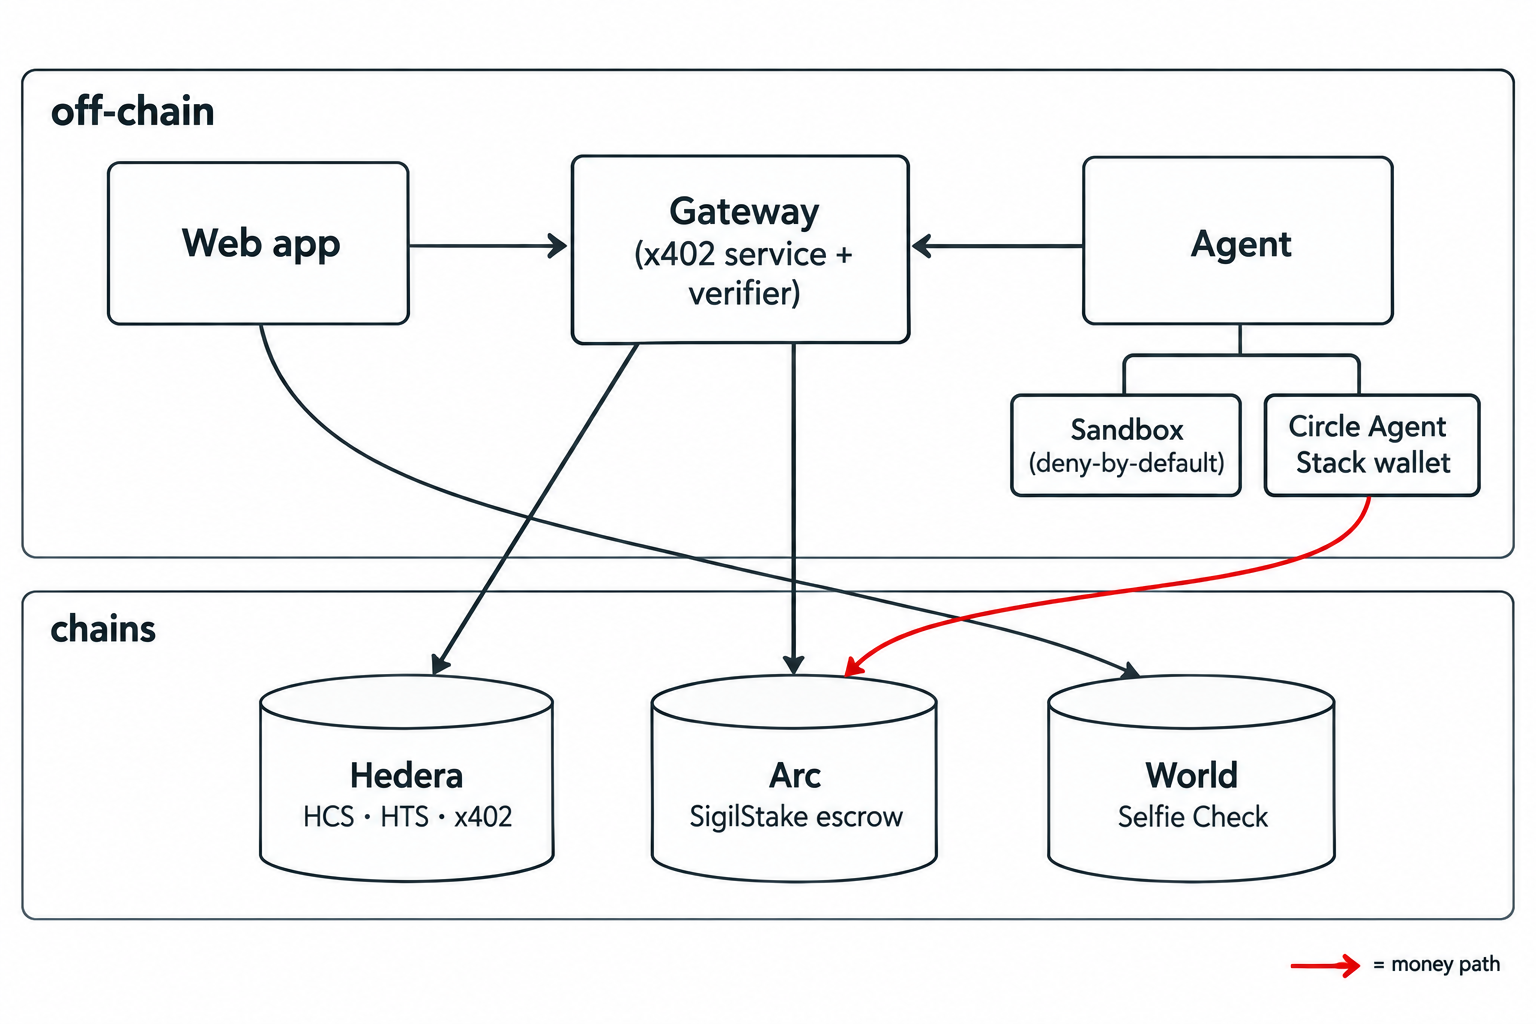
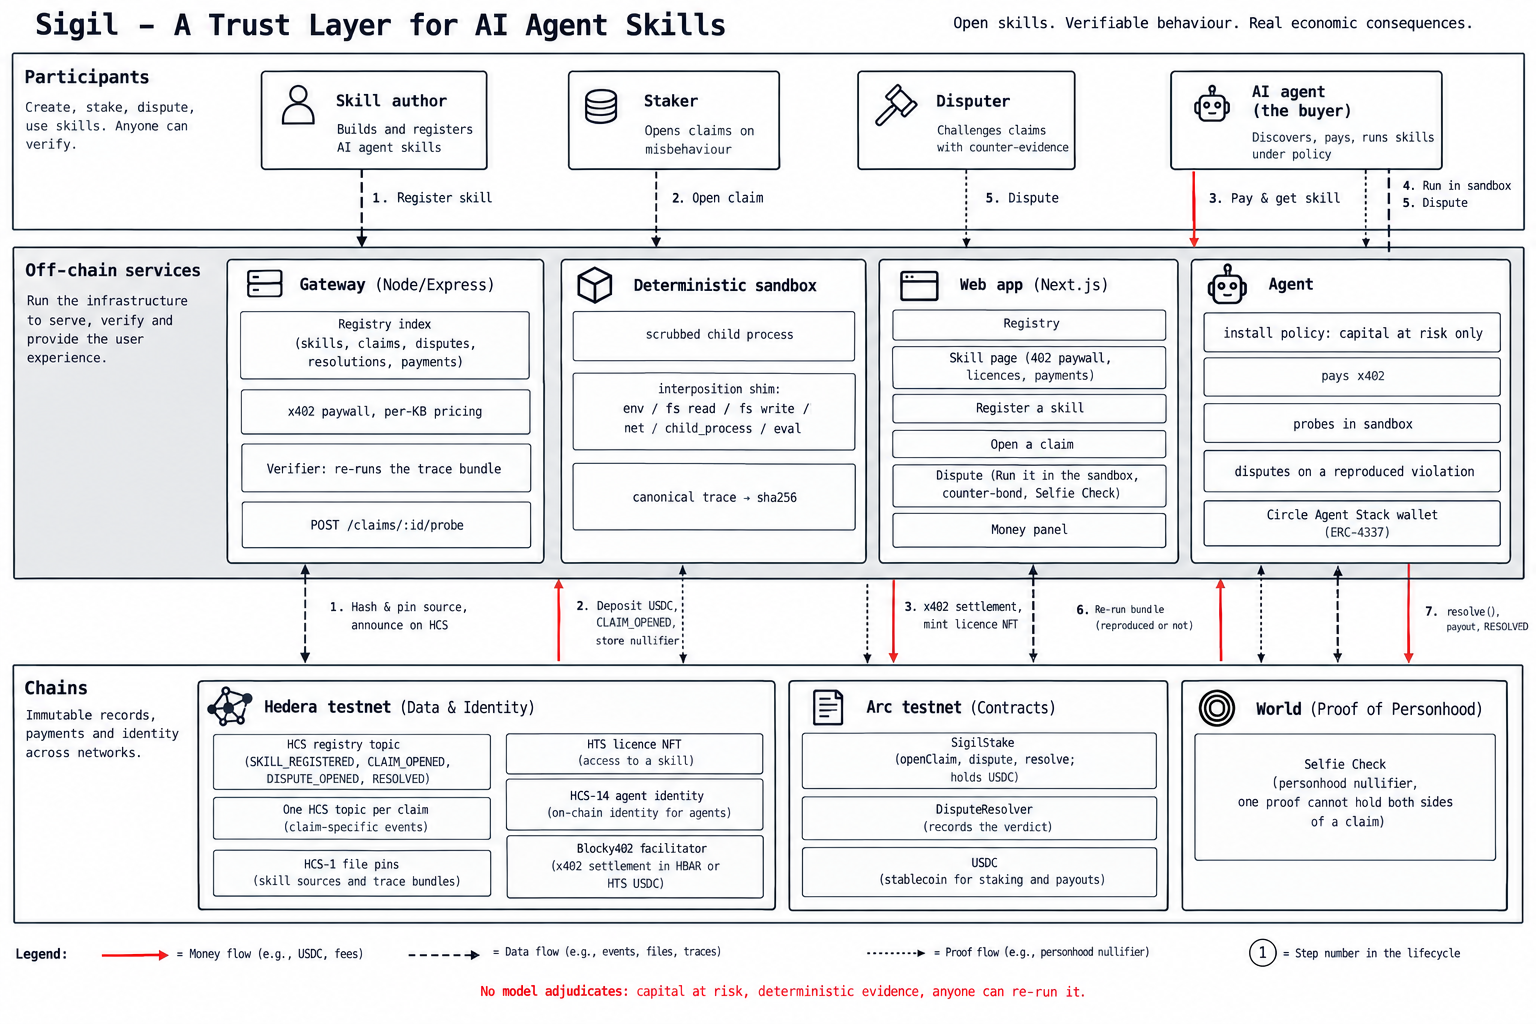
README: the new architecture figure and the Hedera Harness track (PRs #75, #76)
docs/img/diagram-architecture.png is the redrawn figure: participants,
off-chain services, the three chains, seven numbered lifecycle steps as
money, data and proof flows. README and the docs architecture page share
the path. README gains an Open Source: Improve the Hedera Harness section
with both open PRs against hedera-dev/hedera-harness dev; EVIDENCE.md's
status table gets the matching row.

Changed region(s): [[0.0, 0.0, 1.0, 0.9688], [0.625, 0.0, 0.9375, 0.0312]]

diff --git a/EVIDENCE.md b/EVIDENCE.md
@@ -135,6 +135,7 @@ Every command, env var, expected log line and failure mode: [RUN.md](RUN.md). Th
 | Verifier posts the verdict on Arc (`submitVerdict` or `attest`, per `RESOLVER_KIND`) | Real, verified (`dispute` kind) | `packages/gateway/src/verdict.ts` with `SIGIL_RESOLVER_ADDRESS` + `VERIFIER_KEY` set: `submitVerdict(0xb2b1e957…, 0x42ec4684…, true)` from `0xb16FA0D6…` is [0xaf50fbcb…](https://testnet.arcscan.app/tx/0xaf50fbcb3ec78e9e39681fdc8bf2b5f330fc20867736fae88aea2df5f8882a92), logged as `[verdict] … posted to the dispute resolver`, and it is what let `resolve()` pay the agent; the second cycle's `submitVerdict(0x88a529a0…, 0x42ec4684…, true)` is [0x17d23cf9…](https://testnet.arcscan.app/tx/0x17d23cf98fbe1274d666124913873fff553b63e3de280450c7ce5baf409f1952) , the third's `submitVerdict(0x565446a0…, 0x42ec4684…, true)` is [0x35a4174d…](https://testnet.arcscan.app/tx/0x35a4174d90999365bc5b0a698b3d61d22afce9d7884d677c9e27e3c36e7c912d), the fourth's `submitVerdict(0x68e1723e…, 0x42ec4684…, true)` is [0x6fcfafcd…](https://testnet.arcscan.app/tx/0x6fcfafcdf072335aa40fb758014c46f5e1f183e9b0310fca0909c1711c5f666b) , the fifth's `submitVerdict(0xc6c24569…, 0x42ec4684…, true)` is [0x79072849…](https://testnet.arcscan.app/tx/0x790728491f0d6b547617323e7d925612475cad0fcbbb7ef8b1bc49e175abe01e) and the sixth's `submitVerdict(0x056f1a87…, 0x42ec4684…, true)` is [0x7c9a761f…](https://testnet.arcscan.app/tx/0x7c9a761f15fa75b4703b0d4cd5065bf1dc272a5d062a0ad50aa247a3226398b2), sent by the gateway running on the AWS box; each let the Circle wallet's `resolve()` pay out the same way. It posts only when `stakes(claimId).state != 0`; for an off-chain record it logs `[verdict] … is an off-chain record (no escrow on Arc): verdict reproduced=<bool> kept off-chain, nothing posted`. `attestor` → `AttestorResolver.attest(claimId, !reproduced)` is implemented and tested, not deployed |
 | Circle Agent Stack wallet | Real, verified: the agent's `approve`, `dispute` and `resolve` on Arc were sent by an Agent Stack wallet | `packages/agent/src/wallet.ts` `circleWallet` spawns `circle wallet execute <sig> [params…] --contract <addr> --address $CIRCLE_WALLET_ADDRESS --chain $CIRCLE_CHAIN --rpc-url … --output json` for every write (Circle CLI 1.0.0, installed under the nvm Node 22.13 bin dir). Done 2026-09-12: Terms accepted; the two-step email-OTP login, `circle wallet login <email> --type agent --testnet --init` then `circle wallet login --request <id> --otp <code>` (mainnet and testnet are separate sessions; `circle wallet status` lists both); `circle wallet list --chain ARC-TESTNET --type agent --output json` → the agent wallet `0xf6ede0518f7543715322cf7bd420aa6a7732b2e0` (`type: agent`, `blockchain: ARC-TESTNET`); `circle wallet fund --address 0xf6ed… --chain ARC-TESTNET` → 20 USDC at once. It is an ERC-4337 smart contract account: it had no code until the first `execute` deployed it ([0x95ef1061…](https://testnet.arcscan.app/tx/0x95ef106136f399eede7fe12edc00679c5cd887e45a9f2f3716302d2876071e2d), the `approve` that verified the JSON shape), and every `execute` is a user operation whose receipt reads bundler → EntryPoint `0x0000000071727de2…`. The run against claim `0x88a529a0…` with `AGENT_WALLET_BACKEND=circle`: `approve` [0x0e572df3…](https://testnet.arcscan.app/tx/0x0e572df3a897fb5ea5f2b3fd8066fd24deada3c0df34555ce68e67c011b1e40c), `dispute` [0x36b8daad…](https://testnet.arcscan.app/tx/0x36b8daad95a9af633be58651b469c17848329bbd854e53834e968c127b2188d2), `resolve` [0xcef9eec9…](https://testnet.arcscan.app/tx/0xcef9eec96906eb76f0cef2c48196cb94551f5bf5862632f36e46efdaa8a6c73c); `stakes(claimId)` on-chain reads state 3 with disputer `0xf6ed…b2e0`; the wallet's USDC went 20 → 30, exactly the pot minus the bond, because user-operation gas is not charged to it. The same again on claim `0x565446a0…` (the `demo-1` index, inside the USDC-leg `pnpm e2e` run): `approve` [0xfcbe4de9…](https://testnet.arcscan.app/tx/0xfcbe4de9e798980c403bc3b5332c28248c0dbead28a629e19b5fdcbc9fc38ce0), `dispute` [0xd7a487f7…](https://testnet.arcscan.app/tx/0xd7a487f785d0b6a86283fb4e51e7b6d628a0b1cace3a56137b839b3980062c23), `resolve` [0x05489e9d…](https://testnet.arcscan.app/tx/0x05489e9d3c65259044e9d13687c19dd27c07ad62e78fc6a90115e1a853b3d9b4), 20 → 30 USDC once more; and on claim `0x68e1723e…` (the `demo-2` index, inside the second USDC-leg run): `approve` [0xa2c2c95d…](https://testnet.arcscan.app/tx/0xa2c2c95de067eac88ce7d0dbbac7a9567d1eee6186c742ab20f475bb05358d84), `dispute` [0xaeb0e681…](https://testnet.arcscan.app/tx/0xaeb0e681131f937782724aa12f07c2c229561b31bc495baab84fa9693c93c1b4), `resolve` [0xe342487c…](https://testnet.arcscan.app/tx/0xe342487cbd645bdaabf3982b6a0caa2427d71c244d3b29a0a4ba4c653c6d2147), 20 → 30 USDC a third time; and on claim `0xc6c24569…` (the `demo-3` index, inside the third USDC-leg run): `approve` [0x11f3f797…](https://testnet.arcscan.app/tx/0x11f3f7971c8f508c9e91cada54025035e0a4838b1bb739929039bc79f84b40b4), `dispute` [0xa14ef334…](https://testnet.arcscan.app/tx/0xa14ef33482f797b1644578d485a41275b4b9af9450a568352b73815373f7363d), `resolve` [0x9740ae00…](https://testnet.arcscan.app/tx/0x9740ae00ab0f0e8e6aaa1b77707f7165e33dc4ba719eaa365993829c504bad90), 20 → 30 USDC a fourth time; and on claim `0x056f1a87…` (the `demo-4` index, the e2e run against the hosted gateway): `approve` [0x5d514e3a…](https://testnet.arcscan.app/tx/0x5d514e3a4803e146136e274e5b8153b93f94d70584741f812e54cdb62161d1b5), `dispute` [0x6f1b2b77…](https://testnet.arcscan.app/tx/0x6f1b2b77931afe400c109f710ca7cf87cf951a939ed0247a5b5731cf1c1d96ef), `resolve` [0xf9d4506f…](https://testnet.arcscan.app/tx/0xf9d4506fb3ac405769860e3ab4c34321e72a1f54a4cd7e2f3eeca04cdad5c1f1), 20 → 30 USDC a fifth time. `--output json` returns `{ data: { id, state: "COMPLETE", txHash, blockHash, blockHeight, networkFee, estimatedFee, … } }` only once the operation is confirmed; the backend reads `data.txHash` and throws rather than record a placeholder `arcTxHash` if it is missing (`--estimate` returns `callGasLimit`, `verificationGasLimit`, `preVerificationGas` instead of sending). Native USDC leaves the wallet with `circle wallet transfer <to> --amount N --address <wallet> --chain ARC-TESTNET` and no `--token` (`--token usdc` → 404 `Cannot find target token`): [0x72995382…](https://testnet.arcscan.app/tx/0x7299538245b4a180015b3b015591357647ecb673e2ccc00489c651a66a97e8c0) sent 10 USDC back to the deployer for the `demo-1` escrow and [0xa240fc4d…](https://testnet.arcscan.app/tx/0xa240fc4d7951149f1cba25502113f2551cd33c68bbfa3781759d3ee6ae9b580b) for `demo-2`, [0xee2148ce…](https://testnet.arcscan.app/tx/0xee2148ce5d985d1fb4330ea1a7addb0ccceca3d3c0198a5395389500717bbd56) for `demo-3` , [0x7bd18696…](https://testnet.arcscan.app/tx/0x7bd186968a35dff79adef3caa0fd8f5f7bf32c2890eda11ecbd295eeb2d4bb71) for `demo-4` and [0x2560e4c6…](https://testnet.arcscan.app/tx/0x2560e4c6e4b86b7b46cadd84e3ce5e13dd8bfbe54589de15d8625e6016489946) for `demo-5`. `AGENT_WALLET_BACKEND=local` (viem over `AGENT_ARC_KEY`, labelled `LOCAL SIGNER (fallback)` in the log) is the fallback and signed the first cycle (`0xb2b1e957…`) |
 | World Selfie Check | Stub, labelled | `WORLD_MODE=mock`: proof is `{ mock: true, nullifier }`; the web derives the nullifier as `keccak256(address)`, the agent uses `AGENT_HUMAN_PROOF_REF`. The portal side exists since 2026-09-12 (app `app_c984ab94…`, RP `rp_c2143a88…`, signing key and the action `sigil-participant` in `.env`). Sandbox path (`POST /world/rp-context` → `IDKitRequestWidget` with `selfieCheckLegacy` → `POST developer.world.org/api/v4/verify/{rp_id}`) implemented in gateway and web, untested pending Sandbox tester access and the Selfie Check (Beta) flag. In sandbox mode the headless agent, which cannot run IDKit, sends a bare `{ nullifier }`; the gateway accepts it only when the operator listed that nullifier in `WORLD_PREVERIFIED_NULLIFIERS` after verifying once through the web, otherwise `400`. Both-sides rule tested in mock, by the gateway test and in the browser |
+| Hedera Harness (Open Source) | Real, open PRs | [hedera-dev/hedera-harness#75](https://github.com/hedera-dev/hedera-harness/pull/75) (SMOKE polls `server.url` for readiness instead of waiting for a `Local:` log line; Express-style servers passed the stage for the first time) and [#76](https://github.com/hedera-dev/hedera-harness/pull/76) (preflight parses every recipe file, so a broken validator fails `doctor`/`run` before a paid generator session), both against `dev` with tests and before/after output, both found while pointing the harness at Sigil's gateway. Open, not merged; the track accepts open PRs |
 | Hosted deployment (AWS, testnet) | Real, verified 2026-09-12 | One `t4g.medium` in `ap-south-1` running `sigil-gateway` and `sigil-web` under systemd, two CloudFront distributions for HTTPS (https://d32gga9078v6q0.cloudfront.net, https://dr7shuhqdeo3p.cloudfront.net), caching disabled and every header forwarded; the `402` with its `payment-required` header, the CORS preflight, the five routes that existed then and a real paid request (`0.0.7162784@1789231923.585787669`, licence serial 20, `csv-sum`) verified through the CDN; the full cycle has run against it too (the sixth, at 19:42 UTC: the laptop's agent paid and disputed through the CDN, the box's verifier re-ran the bundle and posted [0x7c9a761f…](https://testnet.arcscan.app/tx/0x7c9a761f15fa75b4703b0d4cd5065bf1dc272a5d062a0ad50aa247a3226398b2), `resolve()` [0xf9d4506f…](https://testnet.arcscan.app/tx/0xf9d4506fb3ac405769860e3ab4c34321e72a1f54a4cd7e2f3eeca04cdad5c1f1) paid the wallet), after the box was pinned to Node 22.13.0, the version the trace bundles carry (`runtime.node` is hash-covered; `verifyTrace` now refuses a mismatched verifier instead of ruling); the hosted index is the `demo-5` take, LIVE claim `0x08ee7465…`. Details, reset and teardown in [RUN.md](RUN.md#6-hosted-on-aws-testnet) |
 | Web (Next.js 16, landing page plus five app screens) | Real, verified in Chrome against the live gateway; rebuilt 2026-09-12 as a paper-and-ink ledger ([packages/web/DESIGN.md](packages/web/DESIGN.md)): typecheck and build clean, no horizontal scroll at 390 px, screenshots in the Screens section | `pnpm web` → landing (`/`: masthead, the live strip from `GET /skills` every 10 s with skills listed, USDC escrowed, claims broken, paid requests and the last settlement, "How a claim dies", "Why three chains", "What is real" with four verified links and the labelled mock, the e2e command), registry (`/registry`, with a `paid` column from `paidRequests`), skill detail (`/skills/:id`, with the `Access` section **Use this skill** from `GET /skills/:id/access`: the price, the paywall fetched from the browser and shown as the `402` legs, licence holders, payments polled every 10 s, the agent command), register a skill (`/skills/new`), open a claim (`/claims/new`), dispute (`/claims/:id/dispute`, with `Run it in the sandbox` producing the evidence through `POST /claims/:id/probe`, and the money panel: a `staker` and a `disputer` column, `Run resolver`, `Settle`). With `SIGIL_STAKE_ADDRESS` set (now) the claim and dispute pages sign `approve` + `openClaim` / `dispute` and the panel signs `resolve()` with the injected wallet (wagmi; written, typechecked; these browser-signed branches are not exercised yet, the on-chain outcome the pages show was produced by the seed and the agent); the top bar says `contract undeployed` only when the address is empty. Settled today (`docs/img/dispute-settled.png`): json-pretty's seeded dispute, the staker column `12.500000` with `+2.500000 from the other side`, the disputer column `0.000000` struck through, `pot 12.500000 USDC → staker` under the winner, the `CLAIM UPHELD` stamp, `settlement off-chain record · HCS seq 3`; a broken claim renders the mirror image (the pot under the disputer, `CLAIM BROKEN` in seal red, the `resolve()` tx on Arcscan), which is what `/claims/0xb2b1e957…/dispute?skill=be1d8306…` showed for the real cycle on the previous UI (`settlement 0x49b0b9b7… on Arcscan · HCS seq 3`); `/registry` lists `cloud-helper` after that cycle with `1 / 1` sustained and no capital at risk. Every screen separates escrow from records: the registry has two amount columns, `escrowed on Arc, USDC` from `totalEscrowed` and `off-chain record, USDC` for stake with no `openClaim` tx, stamped `RECORDED`; the claim, dispute and settlement rows link the `arcTxHash` on Arcscan or say `off-chain record`; on such a claim the dispute page disables the on-chain bond (`SigilStake.dispute()` would revert `not live`) and records the dispute with the gateway only. Off-chain mode (address empty) still exists and was the 2026-09-11 verification, on the previous UI: `contract undeployed` in the top bar, `Record claim (… USDC, off-chain)`, example bundle → hash matches → dispute → `reproduced true` → settle → the 150.000000 USDC pot slides under the disputer; the same identity on both sides shows `409: one personhood proof cannot hold both sides of a claim` in the step ledger |
 | Demo video, presentation | Not yet | shot list in [DEMO.md](DEMO.md) |

diff --git a/README.md b/README.md
@@ -27,7 +27,7 @@ public explorer.
 | Demo script | [DEMO.md](DEMO.md) |
 | Architecture and contracts | [ARCHITECTURE.md](ARCHITECTURE.md) |
 
-![Architecture: the gateway and agent off-chain, the three chains they settle on](docs/img/diagram-architecture.png)
+![Architecture: participants on top, the gateway, sandbox, web app and agent in the middle, Hedera, Arc and World underneath, with the seven numbered lifecycle steps as money, data and proof flows](docs/img/diagram-architecture.png)
 
 ## What happens, step by step
 
@@ -118,6 +118,26 @@ every claim and dispute and refuses a dispute whose nullifier matches the claim'
 - First-hand integration feedback for the World team: [FEEDBACK-WORLD.md](FEEDBACK-WORLD.md).
 - Status: live Selfie Check runs as a **labelled mock** until Sandbox tester access lands; the enforcement it feeds is
   real today, and every screen says so.
+
+### Open Source: Improve the Hedera Harness
+
+**What we built.** Two fixes to [hedera-dev/hedera-harness](https://github.com/hedera-dev/hedera-harness), both
+found in the first hour of pointing the harness at Sigil's gateway and both opened as pull requests against `dev`
+(2.0.0-rc.4) from this account. Each carries tests and before/after output in its description.
+
+**Where to look.**
+
+- [PR #75](https://github.com/hedera-dev/hedera-harness/pull/75) `fix(smoke): poll server.url for readiness instead
+  of waiting for a Local: line`. The SMOKE stage took the dev server's URL from a `Local: http://…` log line, which
+  Next and Vite print and Express, Fastify, Hono and Koa do not, so Sigil's gateway (up in two seconds, logging
+  `[gateway] listening on …`) sat out a 30 s timer and failed. The recipe's `server.url` is now polled for readiness
+  and the log line is a fallback. `+388 / -70` across 4 files.
+- [PR #76](https://github.com/hedera-dev/hedera-harness/pull/76) `fix(preflight): a recipe file that does not parse
+  fails doctor and run, not ASSERT after a paid generator session`. `doctor` and `run` checked that validator files
+  exist but never opened them, so a trailing comma in `static.json` surfaced only after a paid agent session.
+  Preflight now parses every file the recipe points at and fails before any money is spent. `+465 / -15` across 8
+  files.
+- Both are open (merge is not required by the track); CI on fork PRs waits for a maintainer approval gate.
 
 ## Try it in a few minutes
 
